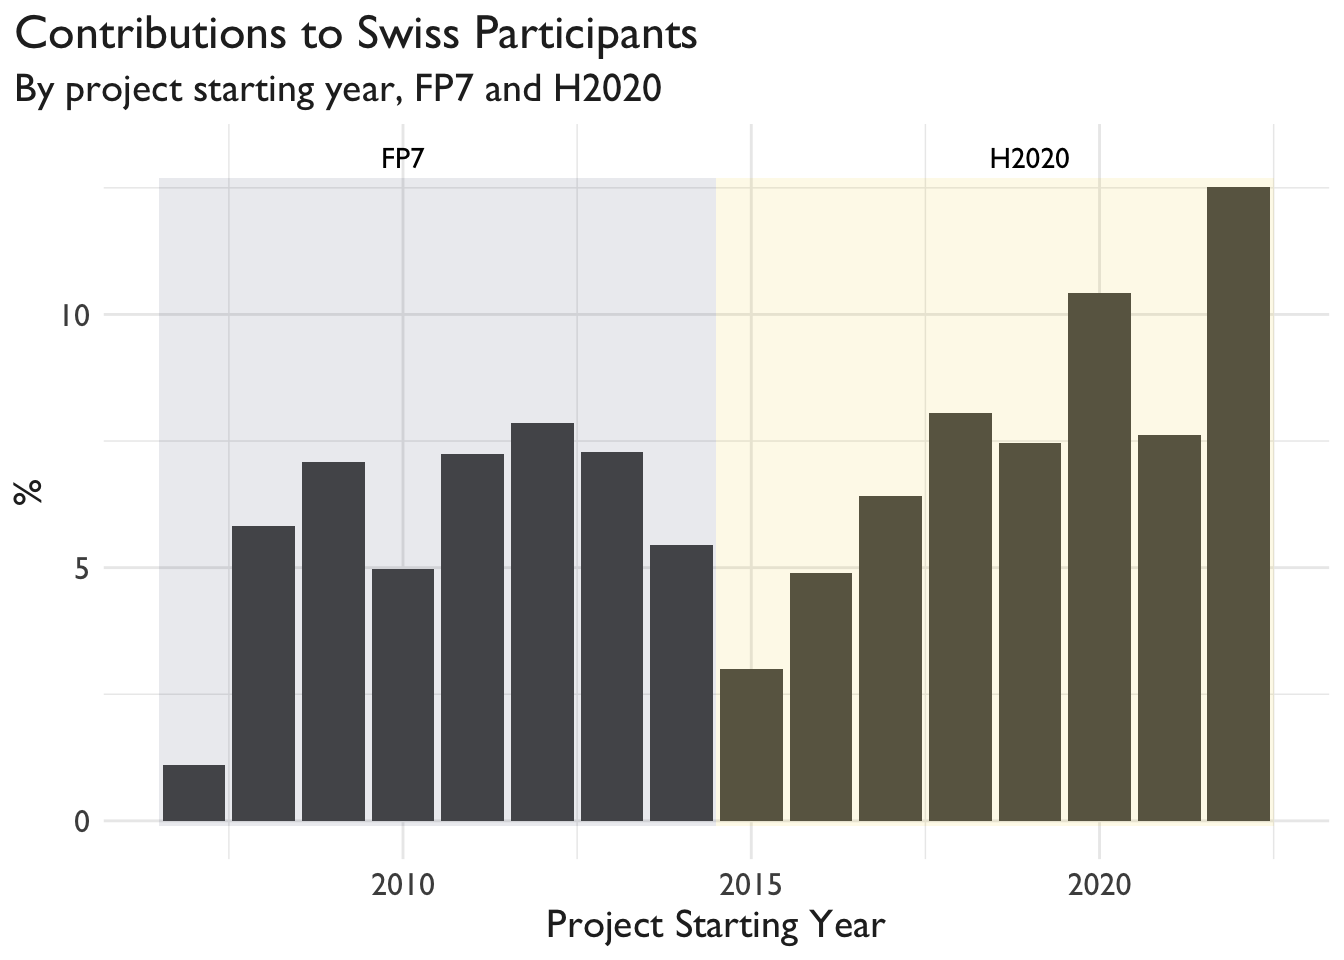
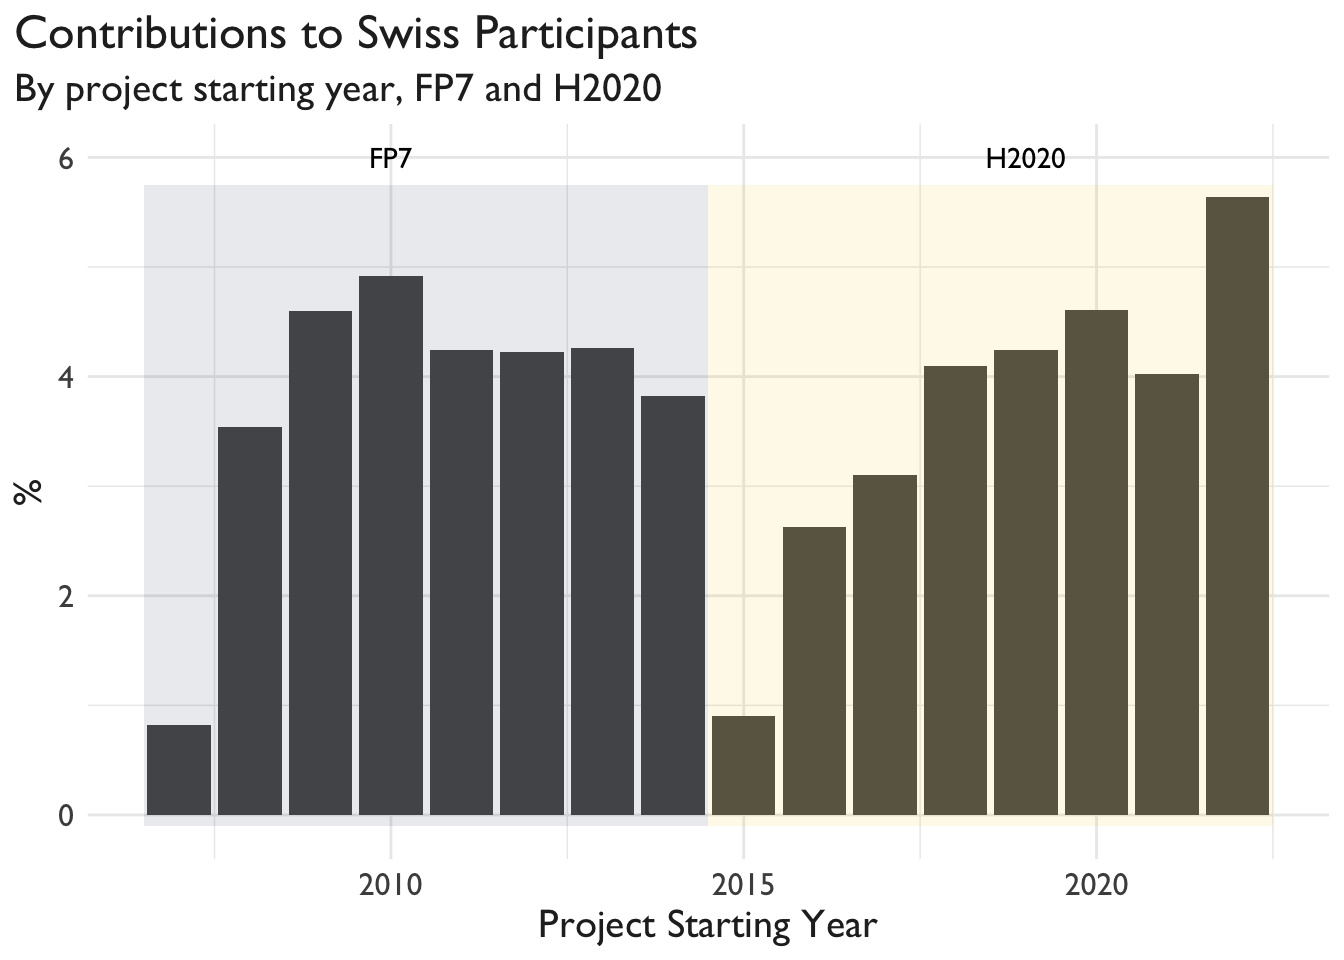
🚑  Proper year statistics

diff --git a/docs/seri-figures.html b/docs/seri-figures.html
@@ -337,14 +337,13 @@ get_particip &lt;- function(x, in_programme = &quot;&quot;) {
       filter(framework_programme == &quot;H2020&quot;)
   }
   total &lt;- x %&gt;%
-    count(Semester = start_semester, name = &quot;n_total&quot;)
+    count(year = start_year, name = &quot;n_total&quot;)
   ch &lt;- x %&gt;%
     filter(country_code == &quot;CH&quot;) %&gt;%
-    count(Semester = start_semester, name = &quot;n_ch&quot;)
-  
-  left_join(total, ch, by = &quot;Semester&quot;) %&gt;%
-    mutate(year = year(Semester),
-           share_particip = 100 * n_ch / n_total)
+    count(year = start_year, name = &quot;n_ch&quot;)
+
+  left_join(total, ch, by = &quot;year&quot;) %&gt;%
+    mutate(share_particip = 100 * n_ch / n_total)
 }
 
 get_contrib &lt;- function(x, in_programme = &quot;&quot;) {
@@ -357,16 +356,15 @@ get_contrib &lt;- function(x, in_programme = &quot;&quot;) {
       filter(framework_programme == &quot;H2020&quot;)
   }
   to_all &lt;- x %&gt;%
-    group_by(Semester = start_semester) %&gt;%
+    group_by(year = start_year) %&gt;%
     summarise(contrib_all = sum(re_contribution, na.rm = TRUE))
   to_ch &lt;- x %&gt;%
     filter(country_code == &quot;CH&quot;) %&gt;%
-    group_by(Semester = start_semester) %&gt;%
+    group_by(year = start_year) %&gt;%
     summarise(contrib_ch = sum(re_contribution, na.rm = TRUE))
 
-  left_join(to_all, to_ch, by = &quot;Semester&quot;) %&gt;%
-    mutate(year = year(Semester),
-           share_contrib = 100 * contrib_ch / contrib_all)
+  left_join(to_all, to_ch, by = &quot;year&quot;) %&gt;%
+    mutate(share_contrib = 100 * contrib_ch / contrib_all)
 }
 
 get_coord &lt;- function(x, in_programme = &quot;&quot;) {
@@ -381,15 +379,14 @@ get_coord &lt;- function(x, in_programme = &quot;&quot;) {
   
   all &lt;- x %&gt;%
     filter(partner_role == &quot;Coordinator&quot;) %&gt;%
-    count(Semester = start_semester, name = &quot;coord_total&quot;)
+    count(year = start_year, name = &quot;coord_total&quot;)
   ch &lt;- x %&gt;%
     filter(country_code == &quot;CH&quot;) %&gt;%
     filter(partner_role == &quot;Coordinator&quot;) %&gt;%
-    count(Semester = start_semester, name = &quot;coord_ch&quot;)
+    count(year = start_year, name = &quot;coord_ch&quot;)
 
-  left_join(all, ch, by = &quot;Semester&quot;) %&gt;%
-    mutate(year = year(Semester),
-           share_contrib = 100 * coord_ch / coord_total)
+  left_join(all, ch, by = &quot;year&quot;) %&gt;%
+    mutate(share_contrib = 100 * coord_ch / coord_total)
 }</code></pre>
 <p>SERI figures show slightly higher shares of contributions to Swiss
 participants. They should, nevertheless, exclude the CERN, the UN, and
@@ -411,7 +408,7 @@ UN-affiliated institutions.</p>
     xmin = 2006.5,
     xmax = 2014.5,
     ymin = -.1,
-    ymax = 8.1,
+    ymax = 3.55,
     fill = &quot;#21325E&quot;,
     alpha = .1
   ) +
@@ -420,14 +417,14 @@ UN-affiliated institutions.</p>
     xmin = 2014.5,
     xmax = 2022.5,
     ymin = -.1,
-    ymax = 8.1,
+    ymax = 3.55,
     fill = &quot;#F1D00A&quot;,
     alpha = .1
   ) +
   annotate(
     &quot;text&quot;,
     x = c(2010, 2019),
-    y = c(8.4, 8.4),
+    y = c(3.65, 3.65),
     label = c(&quot;FP7&quot;, &quot;H2020&quot;),
     family = &quot;Gill Sans&quot;
   )</code></pre>
@@ -450,7 +447,7 @@ UN-affiliated institutions.</p>
     xmin = 2006.5,
     xmax = 2014.5,
     ymin = -.1,
-    ymax = 12.7,
+    ymax = 5.75,
     fill = &quot;#21325E&quot;,
     alpha = .1
   ) +
@@ -459,14 +456,14 @@ UN-affiliated institutions.</p>
     xmin = 2014.5,
     xmax = 2022.5,
     ymin = -.1,
-    ymax = 12.7,
+    ymax = 5.75,
     fill = &quot;#F1D00A&quot;,
     alpha = .1
   ) +
   annotate(
     &quot;text&quot;,
     x = c(2010, 2019),
-    y = c(13.1, 13.1),
+    y = c(6, 6),
     label = c(&quot;FP7&quot;, &quot;H2020&quot;),
     family = &quot;Gill Sans&quot;
   )</code></pre>
@@ -489,7 +486,7 @@ UN-affiliated institutions.</p>
     xmin = 2006.5,
     xmax = 2014.5,
     ymin = -.1,
-    ymax = 11.1,
+    ymax = 5.6,
     fill = &quot;#21325E&quot;,
     alpha = .1
   ) +
@@ -498,14 +495,14 @@ UN-affiliated institutions.</p>
     xmin = 2014.5,
     xmax = 2022.5,
     ymin = -.1,
-    ymax = 11.1,
+    ymax = 5.6,
     fill = &quot;#F1D00A&quot;,
     alpha = .1
   ) +
   annotate(
     &quot;text&quot;,
     x = c(2010, 2019),
-    y = c(11.4, 11.4),
+    y = c(5.8, 5.8),
     label = c(&quot;FP7&quot;, &quot;H2020&quot;),
     family = &quot;Gill Sans&quot;
   )</code></pre>
